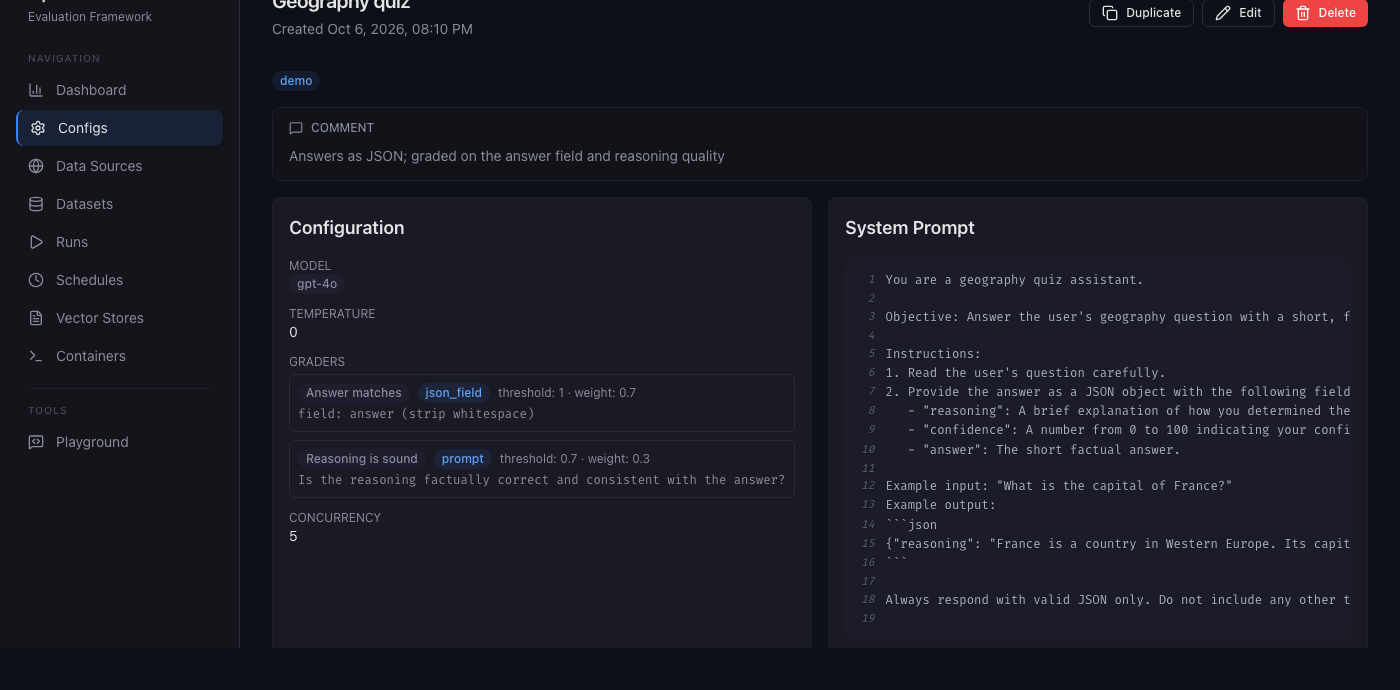
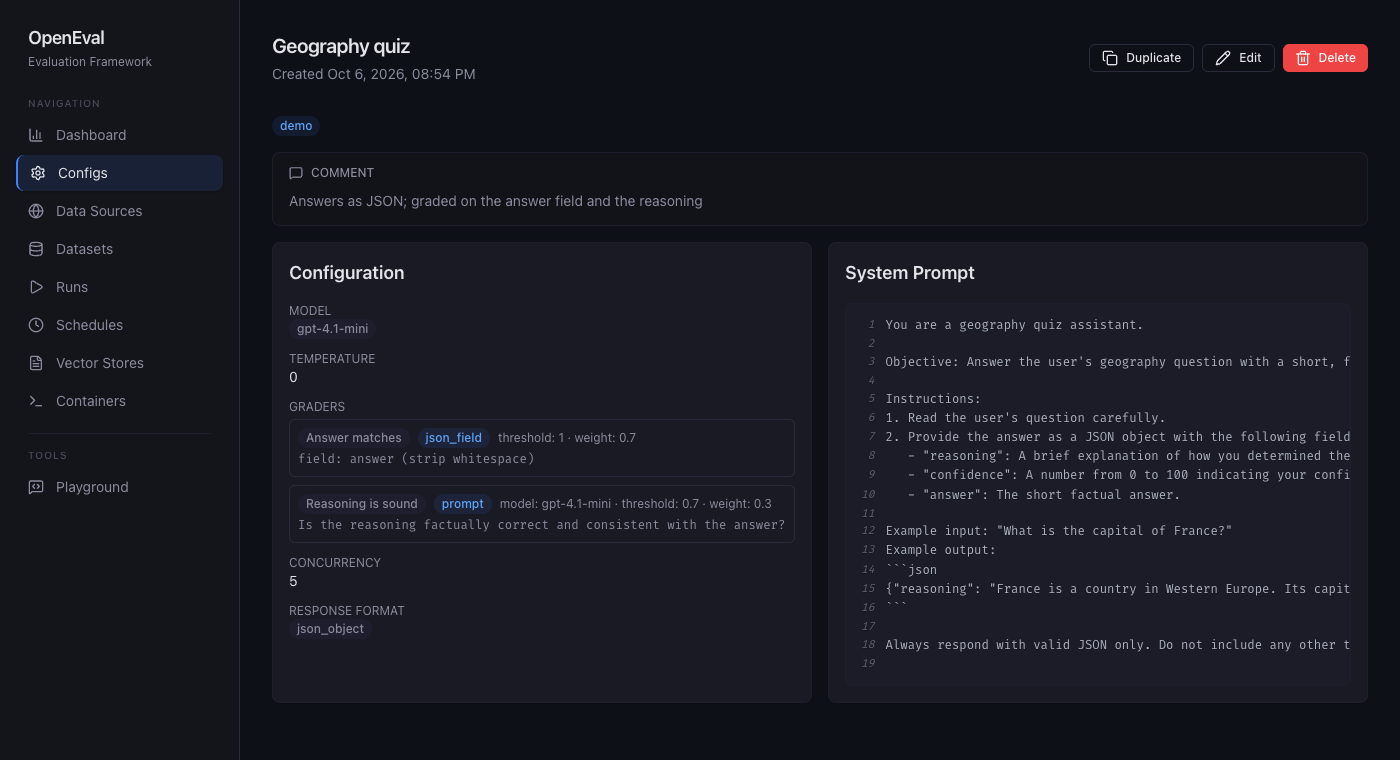
Add demo GIF and real run screenshots to README

diff --git a/README.md b/README.md
@@ -2,7 +2,7 @@
 
 Test your prompts against real data. Write a system prompt, pick a model and tools, upload a CSV of expected answers, add graders, and see exactly where it passes and fails. Re-run after each change and compare.
 
-![Eval config with graders](docs/screenshots/config.png)
+![OpenEval running an evaluation](docs/screenshots/demo.gif)
 
 ## What it does
 
@@ -13,7 +13,9 @@ Test your prompts against real data. Write a system prompt, pick a model and too
 - **Iterate:** side-by-side run comparison, a playground, recurring schedules, and custom grader plugins.
 - **Self-hosted:** one `docker compose up`. Only OpenAI calls leave your machine.
 
-![Dataset](docs/screenshots/dataset.png)
+| Config with graders | Run results |
+| --- | --- |
+| ![Config](docs/screenshots/config.png) | ![Run results](docs/screenshots/run.png) |
 
 **Stack:** FastAPI, SQLAlchemy, MySQL, React, Tailwind, OpenAI Responses API.
 
@@ -29,7 +31,7 @@ cp .env.example .env
 docker compose up --build
 ```
 
-Open http://localhost:8000, create a config, upload a dataset (try `misc/sample-dataset.csv`) and start a run.
+Open http://localhost:8000, create a config, upload a dataset (try `misc/sample-dataset.csv`) and start a run. For the sample prompt, set the response format to JSON object so the JSON field grader can read the answer.
 
 Stop with `docker compose down`. If port 3306 is taken, set `MYSQL_PORT=3307` in `.env`.
 
